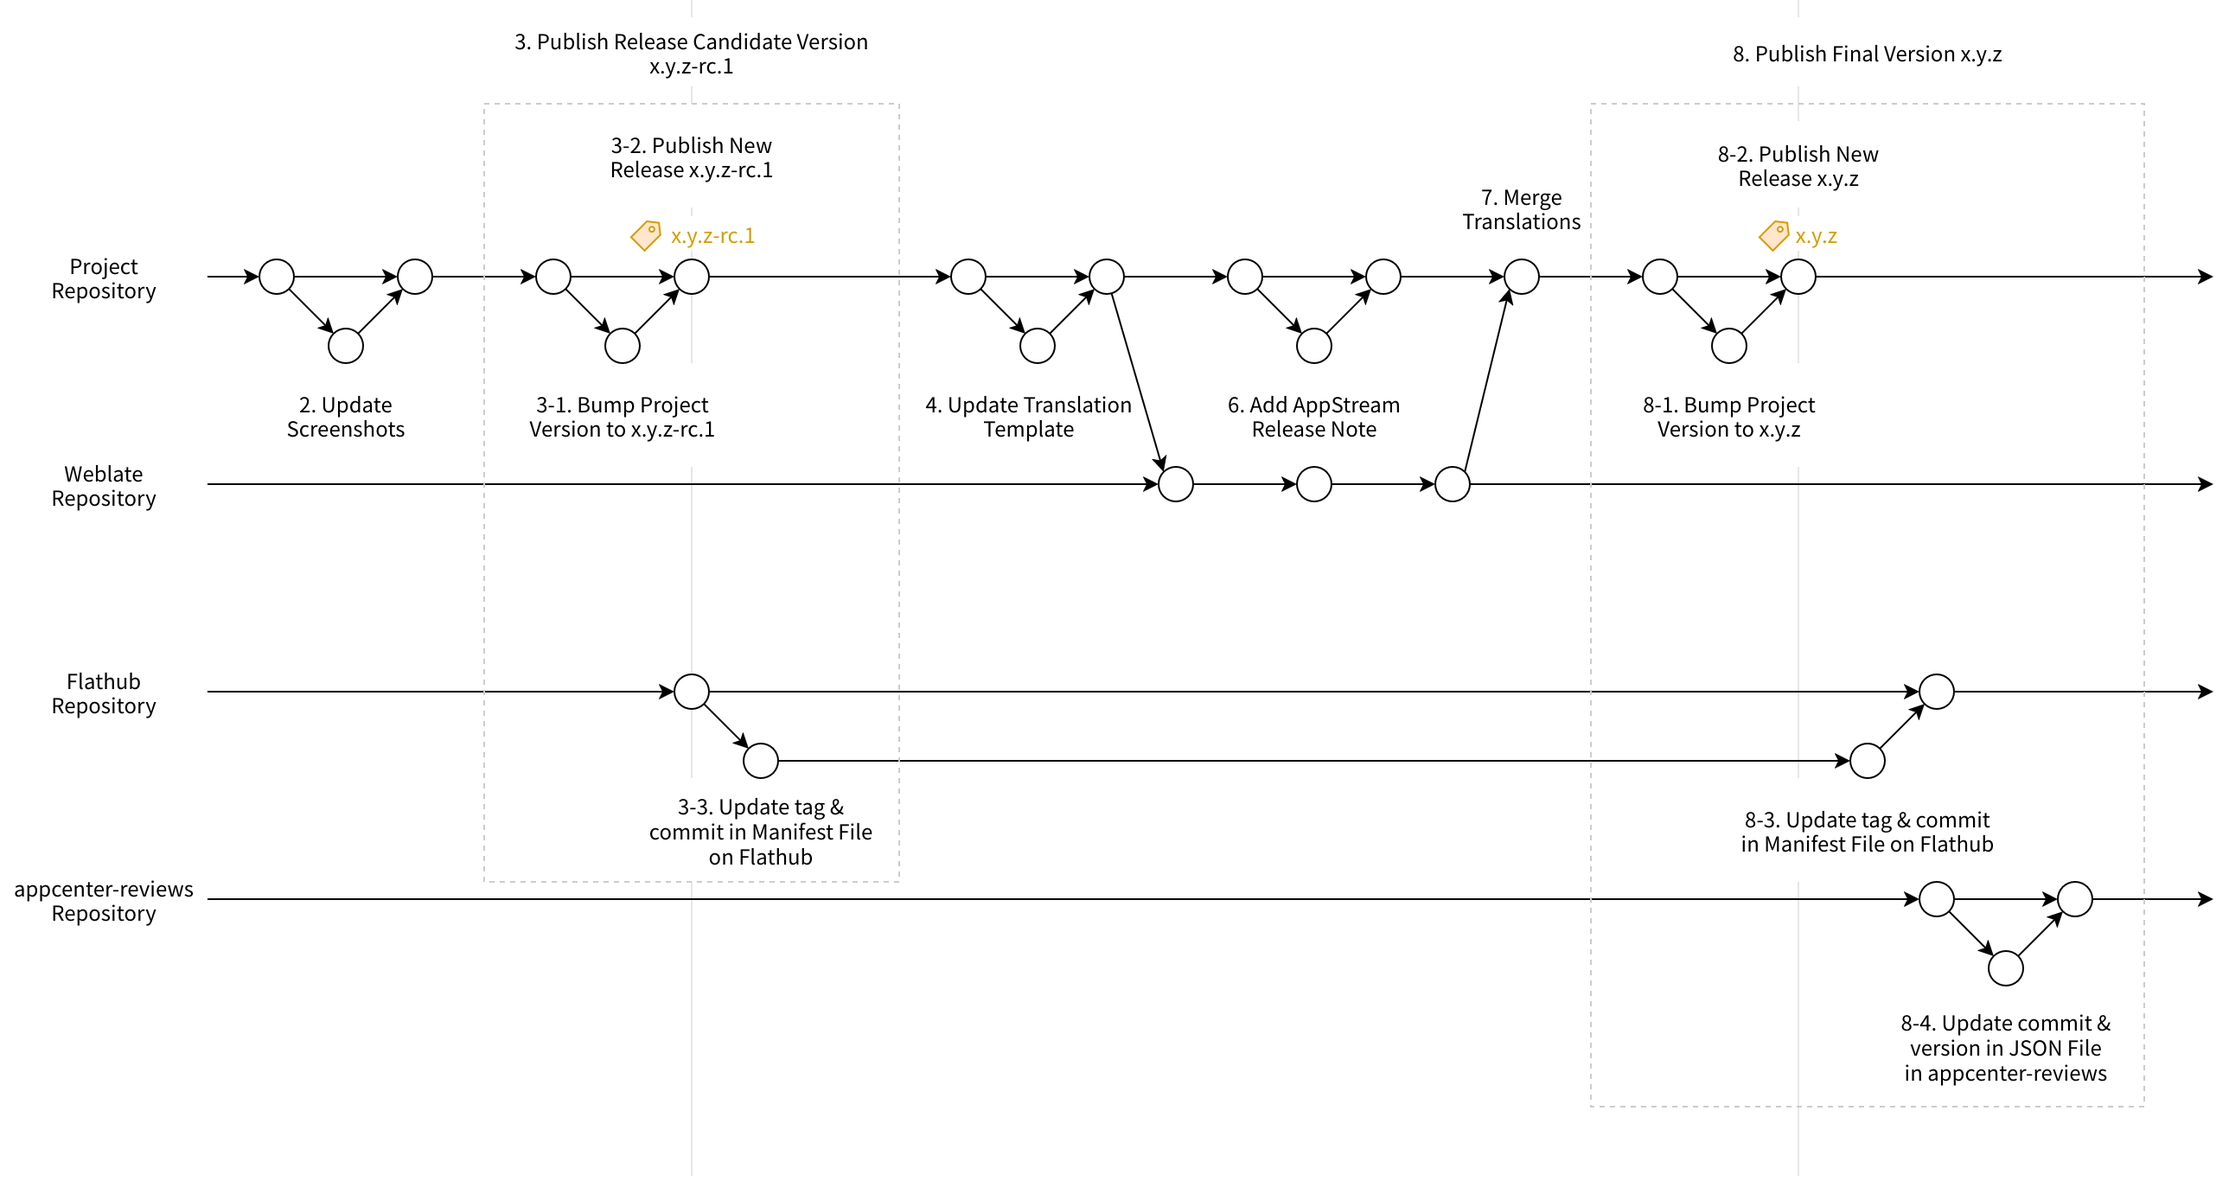
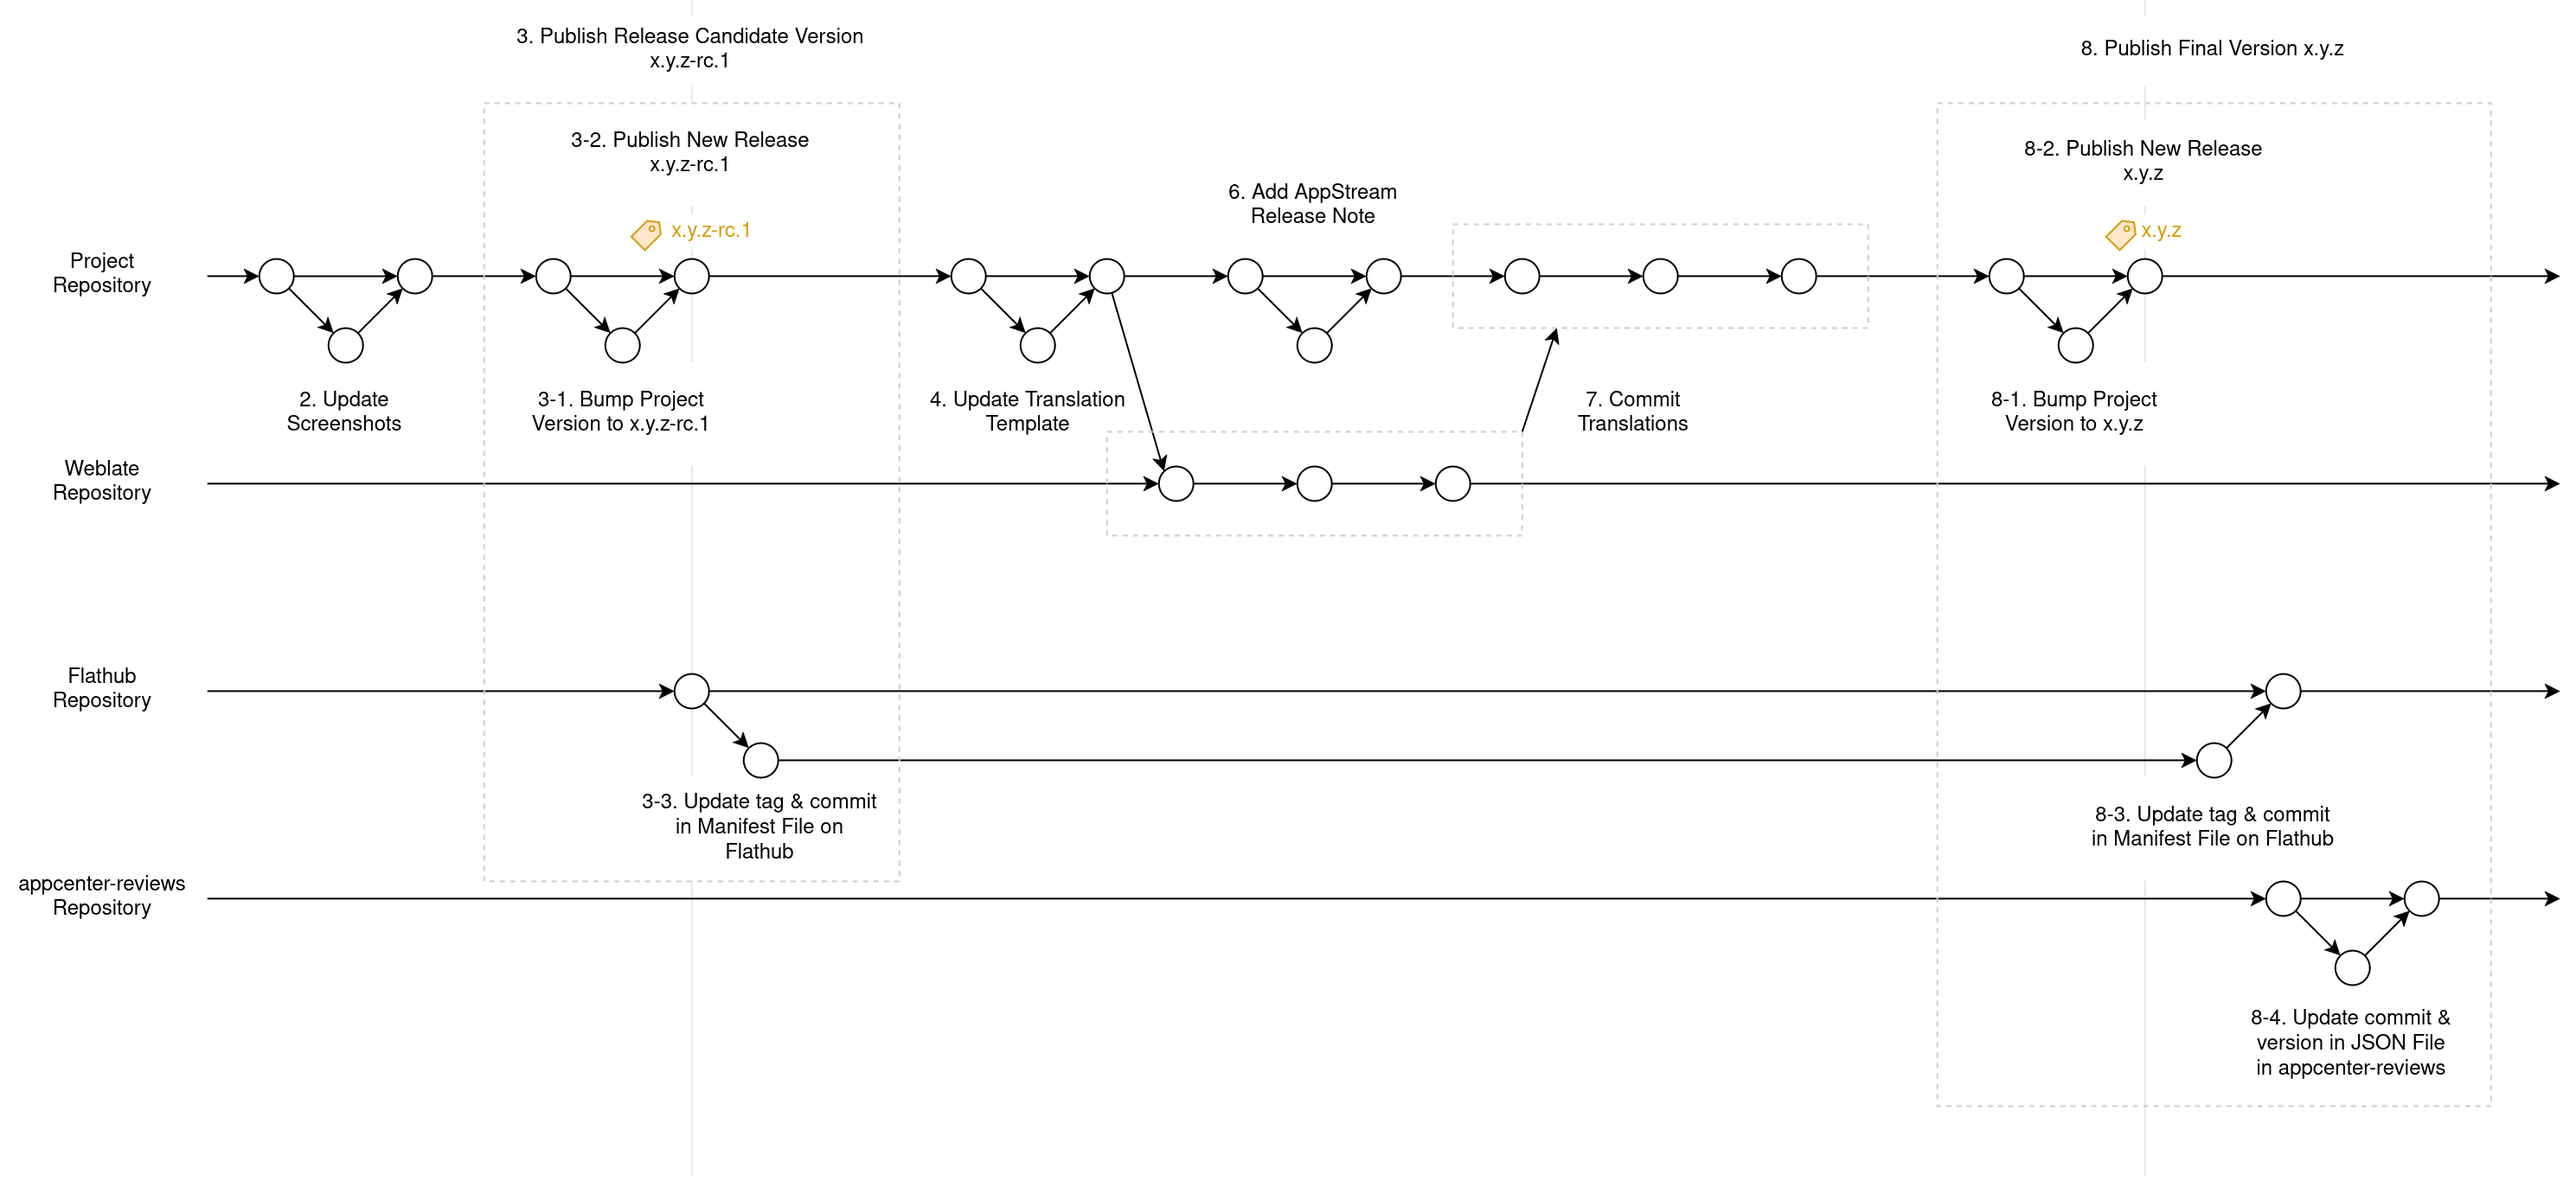
[skip ci] Review

diff --git a/RELEASE_HOWTO.md b/RELEASE_HOWTO.md
@@ -1,6 +1,13 @@
 # Release Flow
 ![release flow](./docs/images/release_flow.png)
 
+## Prerequisites
+You need to be:
+
+- a `Collaborator` on the project repository
+- a member of `Project maintainers` of the rosp/Reco project on Hosted Weblate
+  - You can check at [Overview page](https://hosted.weblate.org/projects/rosp/reco/#information)
+
 ## 1. Decide Version Number of Release
 Version numbers should follow [Semantic Versioning](https://semver.org/).
 
@@ -40,8 +47,7 @@ Example: https://github.com/ryonakano/reco/pull/449
 * Create a new tag named `x.y.z-rc.1`
 * Release title: `Reco x.y.z-rc.1 Released`
 * Release notes may be blank because this is a pre-release
-* Check `Set as a pre-release` on
-* Check `Set as the latest release` off (default)
+* Set `Release label` to `Pre-release`
 * Publish it when completed
 
 Example: https://github.com/ryonakano/reco/releases/tag/5.2.0-rc.1
@@ -71,16 +77,13 @@ Committing this change triggers Weblate to update all translation files `po/*.po
 (msgmerge)" add-on](https://docs.weblate.org/en/latest/admin/addons.html#addon-weblate-gettext-msgmerge).
 
 ## 5. (Optional) Engage Translators to Work on Translations
-Requirement: needs to be a member of `Project maintainers` of the rosp/Reco project on Hosted Weblate; you can check at
-[Overview page](https://hosted.weblate.org/projects/rosp/reco/#information)
-
-Go to [Operation → Post announcement](https://hosted.weblate.org/projects/rosp/reco/#announcement) of the project page
+Go to [Operations → Post announcement](https://hosted.weblate.org/projects/rosp/reco/#announcement) of the project page
 and post an announcement with the following content:
 
 * Write a `Message` that
   * tells target date & time of the final release in UTC
   * asks translators to work on translations
-* Set `Severity` to `Info (light blue)`
+* Set `Severity` to `Info (light blue)` (default)
 * Set `Expiry date` to the day before the target day
 * Check `Notify users` on
 
@@ -92,11 +95,14 @@ and post an announcement with the following content:
 
 Example: https://github.com/ryonakano/reco/pull/460
 
-## 7. Merge Translations
-Translation updates from Hosted Weblate is configured to be submitted through a PR, e.g. https://github.com/ryonakano/reco/pull/443. Merge one before the final release if any is open.
+## 7. Commit Translations
+Translation updates from Hosted Weblate is configured to be committed and pushed to `origin/main` directly in every
+24 hour. Make sure all translation updates committed and pushed before release. 
 
-Translation updates PRs should be merged with the "Create a merge commit" strategy. Squashing these changes into one
-commit makes it harder to revisit them later.
+Go to [Operations → Repository maintenance](https://hosted.weblate.org/projects/rosp/reco/#repository) of the project
+page and press `Commit` button:
+
+![commit translations](./docs/images/commit_translations.png)
 
 ## 8. Publish Final Version `x.y.z`
 ### 8-1. Bump Project Version to `x.y.z`
@@ -106,8 +112,7 @@ Refer to "3-1. Bump Project Version to `x.y.z-rc.1`" for details.
 Refer to "3-2. Publish New Release `x.y.z-rc.1`" for details.
 
 * Release notes MUST be filled because this is the final release
-* Check `Set as a pre-release` off (default)
-* Check `Set as the latest release` on (default)
+* Set `Release label` to `Latest` (default)
 
 ### 8-3. Update `tag` & `commit` in Manifest File on Flathub
 Refer to "3-3. Update `tag` & `commit` in Manifest File on Flathub" for details.
